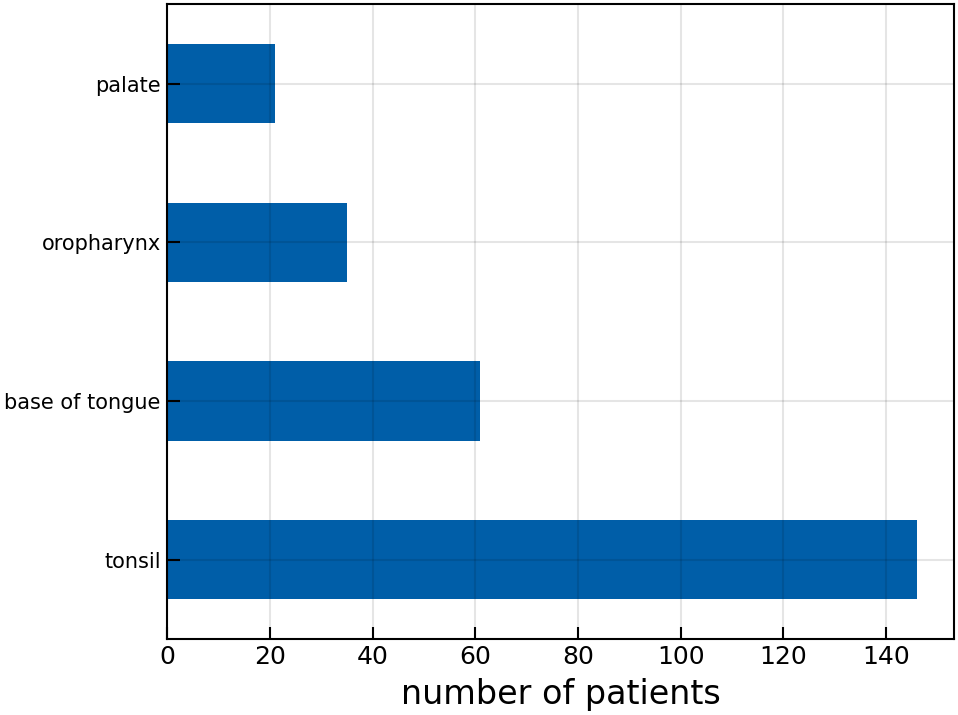
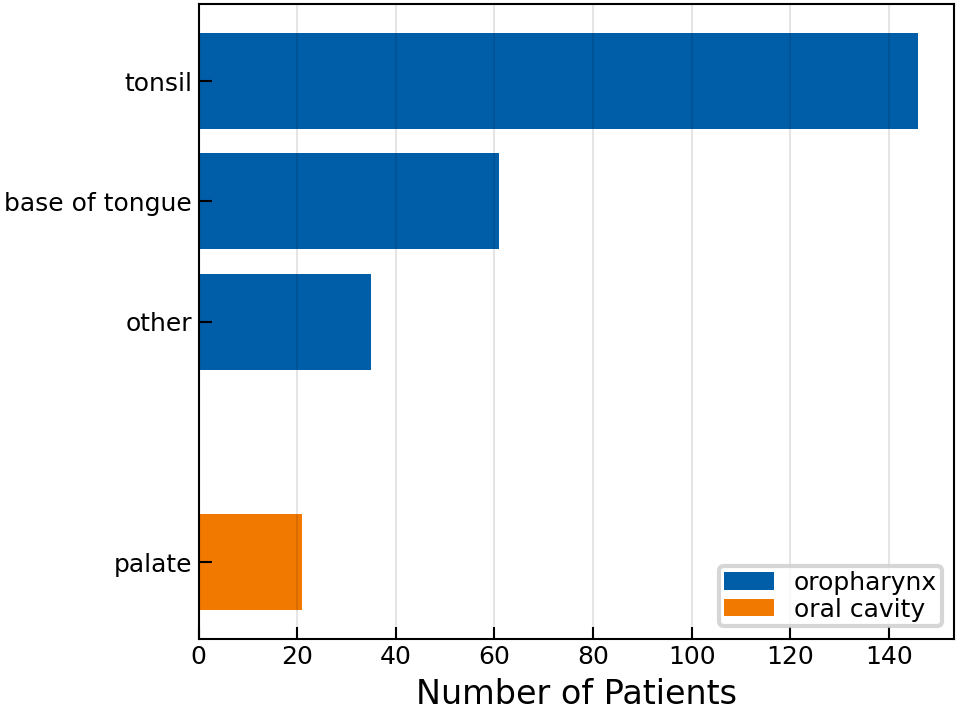
group subsites in subsite plot

diff --git a/scripts/subsite.py b/scripts/subsite.py
@@ -1,6 +1,7 @@
 """
 Plot the distribution over primary tumor subsites.
 """
+from collections import defaultdict
 from pathlib import Path
 import argparse
 import re
@@ -11,45 +12,55 @@ import matplotlib.pyplot as plt
 from tueplots import figsizes, fontsizes
 
 from lyscripts.plot.utils import COLORS
+from lyscripts.utils import flatten
+
+
+def invert(mapping: dict) -> dict:
+    """Invert a dictionary with lists as values."""
+    result = {}
+    for key, value_list in mapping.items():
+        for value in value_list:
+            result[value] = key
+
+    return result
 
 
 MPLSTYLE = Path(__file__).parent / ".mplstyle"
 OUTPUT_NAME = Path(__file__).with_suffix(".png").name
-SUBSITES = {
-    "C00": "lips",
-    "C01": "base of tongue",
-    "C02": "other & unspec. parts of tongue",
-    "C03": "gum",
-    "C04": "floor of mouth",
-    "C05": "palate",
-    "C06": "other & unspec. parts of mouth",
-    "C07": "parotid gland",
-    "C08": "other & unspec. major salivary glands",
-    "C09": "tonsil",
-    "C10": "oropharynx",
-    "C11": "nasopharynx",
-    "C12": "pyriform sinus",
-    "C13": "hypopharynx",
-    "C14": "other/ill-defined sites in the lip, oral cavity and pharynx",
-    "C32": "larynx",
+SUBSITE_DICT = {
+    "oropharynx": {
+        "base of tongue":  ["C01"  , "C01.9"],
+        "tonsil":          ["C09"  , "C09.0", "C09.1", "C09.8", "C09.9"],
+        "other":           ["C10"  , "C10.0", "C10.1", "C10.2", "C10.3",
+                            "C10.4", "C10.8", "C10.9"],
+    },
+    "hypopharynx": {
+        "all":             ["C12"  , "C12.9",
+                            "C13"  , "C13.0", "C13.1", "C13.2", "C13.8", "C13.9"],
+    },
+    "larynx": {
+        "glottis":         ["C32.0", "C32.1", "C32.2"],
+        "other":           ["C32"  , "C32.8", "C32.9"],
+    },
+    "oral cavity": {
+        "lips":            ["C00", "C00.1", "C00.2", "C00.3", "C00.4", "C00.5",
+                            "C00.8", "C00.9"],
+        "tongue":          ["C02"  , "C02.0", "C02.1", "C02.2", "C02.3", "C02.4",
+                            "C02.8", "C02.9",],
+        "gums & cheek":    ["C03"  , "C03.0", "C03.1", "C03.9",
+                            "C06"  , "C06.0", "C06.1", "C06.2", "C06.8", "C06.9",],
+        "floor of mouth":  ["C04"  , "C04.0", "C04.1", "C04.8", "C04.9",],
+        "palate":          ["C05"  , "C05.0", "C05.1", "C05.2", "C05.8", "C05.9",],
+        "glands":          ["C08"  , "C08.0", "C08.1", "C08.9",],
+    },
 }
-
-
-def group_icd_codex(icd):
-    """Group ICD codes to their parent blocks."""
-    match = re.match(r"(C\d\d)", icd)
-    return match.group(1)
-
-
-def icd_to_subsite(icd):
-    """Convert an ICD code to a subsite."""
-    match = re.match(r"(C\d\d)", icd)
-    return "\n".join(textwrap.wrap(SUBSITES[match.group(1)], width=22))
+FLAT_SUBSITE_DICT = flatten(SUBSITE_DICT)
+INVERTED_FLAT_SUBSITE_DICT = invert(FLAT_SUBSITE_DICT)
 
 
 if __name__ == "__main__":
     parser = argparse.ArgumentParser(
-        prog="age_and_sex",
+        prog="subsite",
         description=__doc__,
     )
     parser.add_argument(
@@ -61,9 +72,18 @@ if __name__ == "__main__":
     output_dir = args.data.parent / "figures"
     output_dir.mkdir(exist_ok=True)
 
-    subsites = data[("tumor", "1", "subsite")].map(group_icd_codex)
+    subsites = data[("tumor", "1", "subsite")]
     subsites = subsites.value_counts()
-    subsites.index = subsites.index.map(icd_to_subsite)
+
+    grouped_subsites = defaultdict(lambda: defaultdict(int))
+    for icd, count in subsites.items():
+        location, subsite = INVERTED_FLAT_SUBSITE_DICT[icd]
+        grouped_subsites[location][subsite] += count
+
+    sorted_subsites = {}
+    for location, subdict in grouped_subsites.items():
+        sorted_subdict = dict(sorted(subdict.items(), key=lambda item: -item[1]))
+        sorted_subsites[location] = sorted_subdict
 
     plt.style.use(MPLSTYLE)
     plt.rcParams.update(figsizes.icml2022_half(
@@ -72,12 +92,28 @@ if __name__ == "__main__":
     plt.rcParams.update(fontsizes.icml2022())
     fig, ax = plt.subplots()
 
-    subsites.plot.barh(
-        ax=ax,
-        color=COLORS["blue"],
-        xlabel="number of patients",
-        ylabel="",
-    )
-    ax.set_yticklabels(subsites.index, fontsize=5, linespacing=0.75)
+    inter_loc_space, intra_loc_space = 1, 1
+    cursor = 0
+    positions = []
+    labels = []
+    for i, (location, subdict) in enumerate(sorted_subsites.items()):
+        location_positions = []
+        location_values = []
+        for j, (subsite, count) in enumerate(subdict.items()):
+            location_positions.append(cursor)
+            location_values.append(count)
+            labels.append(subsite)
+            cursor -= intra_loc_space
+
+        ax.barh(location_positions, location_values, label=location)
+
+        positions = [*positions, *location_positions]
+        cursor -= inter_loc_space
+
+    ax.set_xlabel("Number of Patients")
+    ax.set_yticks(positions)
+    ax.set_yticklabels(labels)
+    ax.legend()
+    ax.grid(axis="y")
 
     plt.savefig(output_dir / OUTPUT_NAME, dpi=300)
